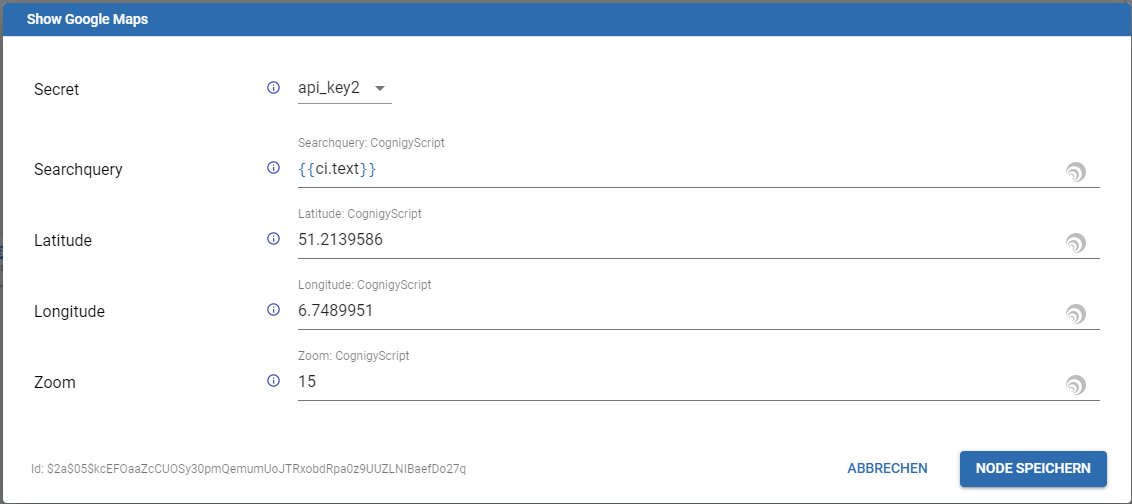
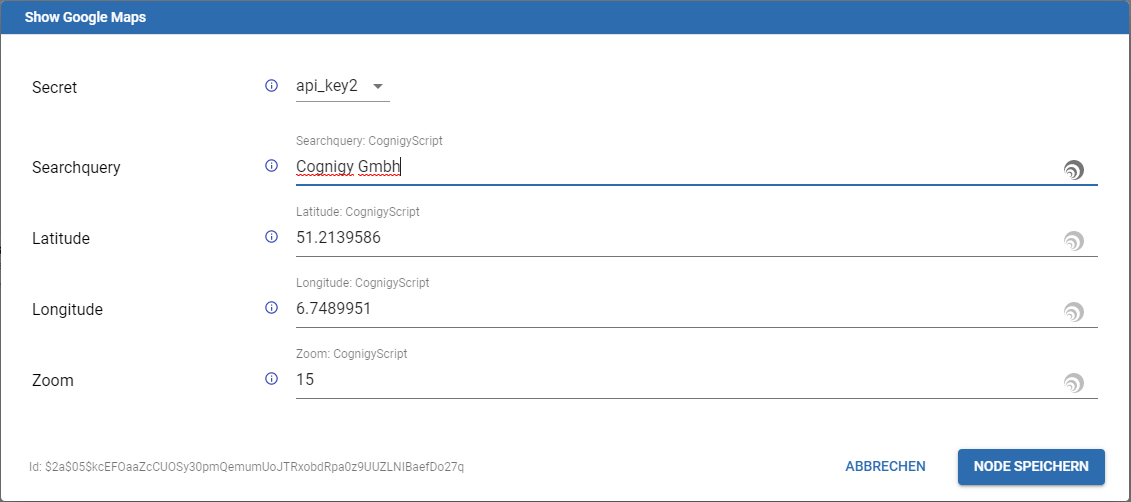
Add files via upload

diff --git a/modules/google-maps/README.md b/modules/google-maps/README.md
@@ -11,12 +11,10 @@ This modules needs a CognigySecret to be defined and passed to the Nodes. The se
 
 **Properties**
 
-There are two ways to use this Custom Module. Use the Google Maps Geocoding API to get the longitude and latitude of the address. 
-    Such as the [documentation](https://developers.google.com/maps/documentation/geocoding/start) says, you can add the properties as a simple string: 
+There are two ways to use this Custom Module. Use the [Google Maps Geocoding API](https://developers.google.com/maps/documentation/geocoding/start) to get the longitude and latitude of the address. 
 
-    - address
-If the Searchquery field is empty or no Place was found, it use the default values from Latitude and Longitude. 
-The fields look like this:
+If the Searchquery field is empty or no Place was found, the module use the default values from Latitude and Longitude. 
+Here is an example of a filled google-maps node:
 ![Create Location Node](./docs/google-maps-node.PNG)
 
 **View**
